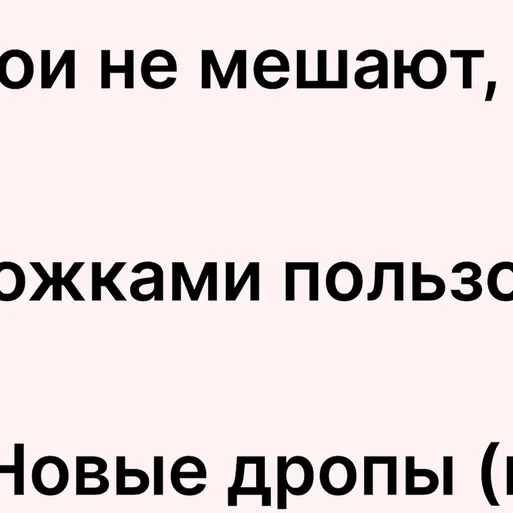
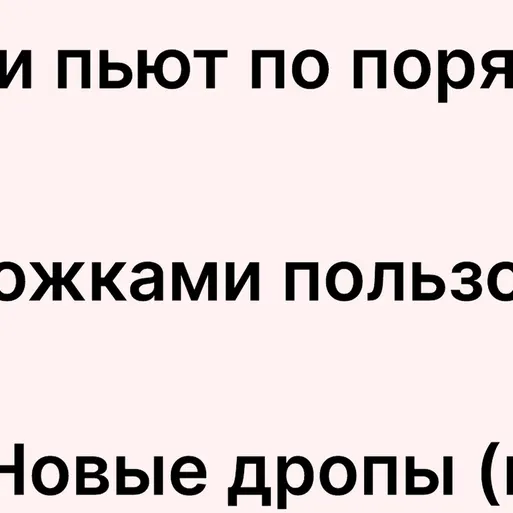
Слайд 10 «Правила клуба»: правка текста из Figma
Строка про слои: «Слои пьют по порядку не перемешивая».

Claude-Session: https://claude.ai/code/session_01Lp3Q6ktycZ9twvzzsKVyRs

Changed region(s): [[0.0, 0.0936, 1.0, 0.2183]]

diff --git a/index.html b/index.html
@@ -282,7 +282,7 @@ body.zoomed #track { overflow-x: hidden; touch-action: none; }
     {"w":3195,"h":1917,"levels":[[6390,3834],[9585,5751]],"v":"266d0ae4"},
     {"w":3195,"h":1917,"levels":[[6390,3834],[9585,5751]],"v":"42b61e83"},
     {"w":3195,"h":2070,"levels":[[6390,4140],[9585,6210]],"v":"47264750"},
-    {"w":3195,"h":1917,"levels":[[6390,3834],[9585,5751]],"v":"2fd24fd4"},
+    {"w":3195,"h":1917,"levels":[[6390,3834],[9585,5751]],"v":"f46f4a2d"},
     {"w":3195,"h":1917,"levels":[[6390,3834],[9585,5751]],"v":"49314124"},
     {"w":3195,"h":1917,"levels":[[6390,3834],[9585,5751]],"v":"fcd60c78"},
     {"w":3195,"h":1917,"levels":[[6390,3834],[9585,5751]],"v":"c6c3d93e"},
